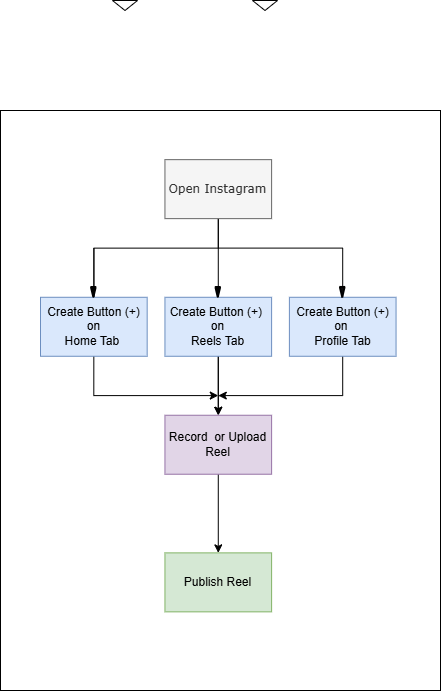
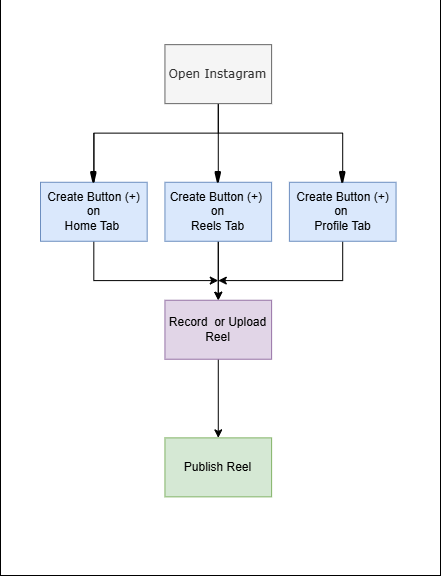
added content

diff --git a/overview.md b/overview.md
@@ -1,5 +1,3 @@
-
-
 ## Overview
 
 Instagram Reels are short videos that let you create and share engaging content with your followers and the wider Instagram community. Reels support a variety of creative features, including music, audio, effects, filters, text, stickers, voiceovers, and editing tools, making it easy to produce entertaining, educational, or promotional videos.